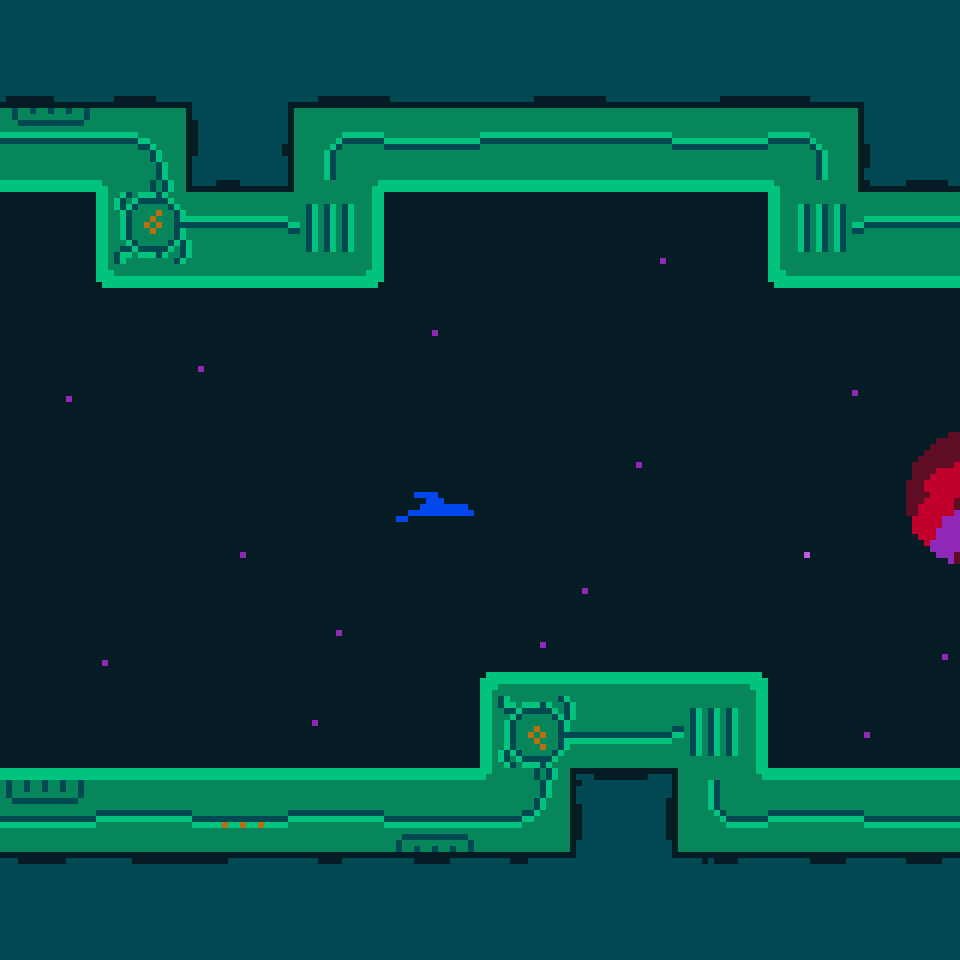
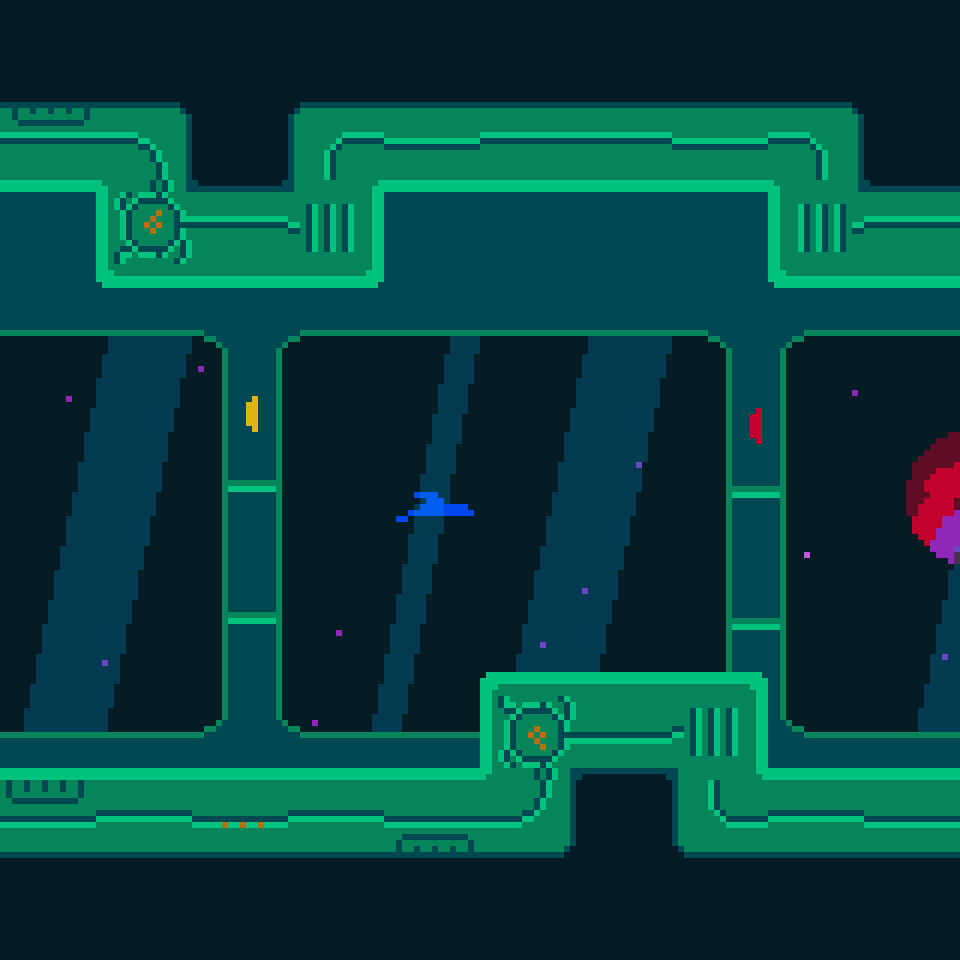
Updated art mock

diff --git a/README.md b/README.md
@@ -3,3 +3,5 @@
 [![Powered by Flame](https://img.shields.io/badge/Powered%20by-%F0%9F%94%A5-orange.svg?style=for-the-badge)](https://flame-engine.org)
 
 This is a simple homage to Gravity Square, an old inifinity runner discountinued by Kongregate.
+
+Color palette: https://lospec.com/palette-list/fzt-ethereal-16
